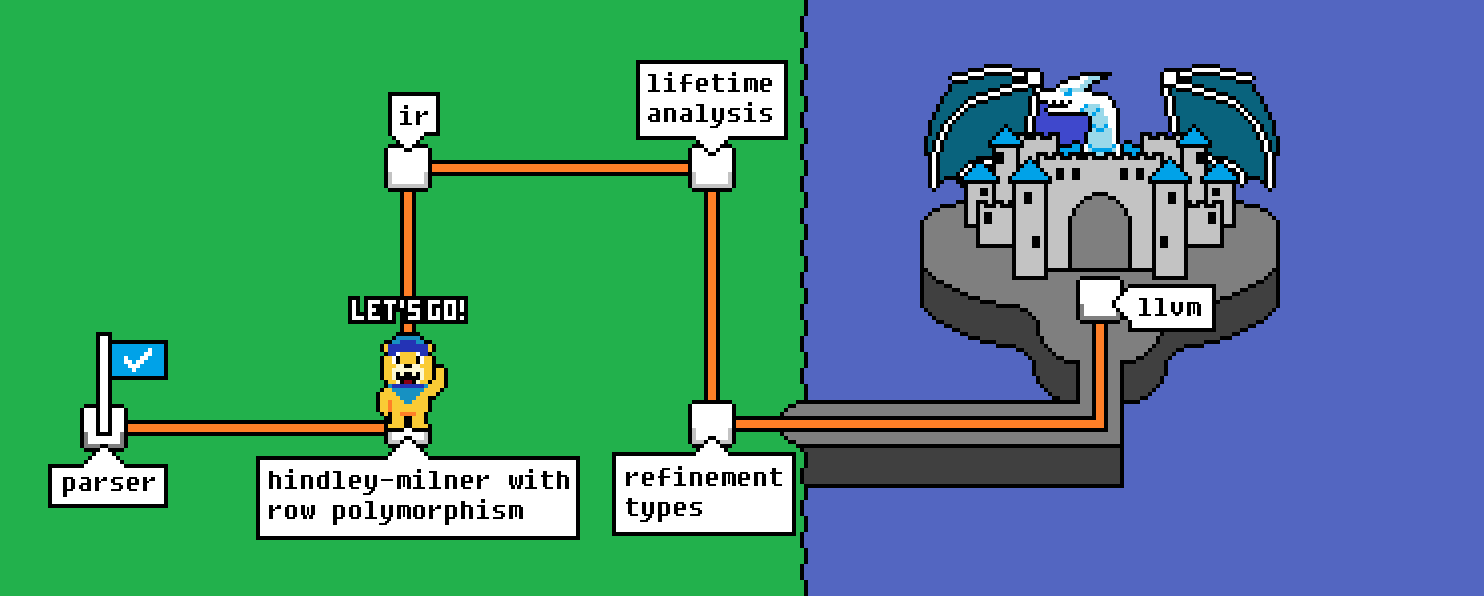
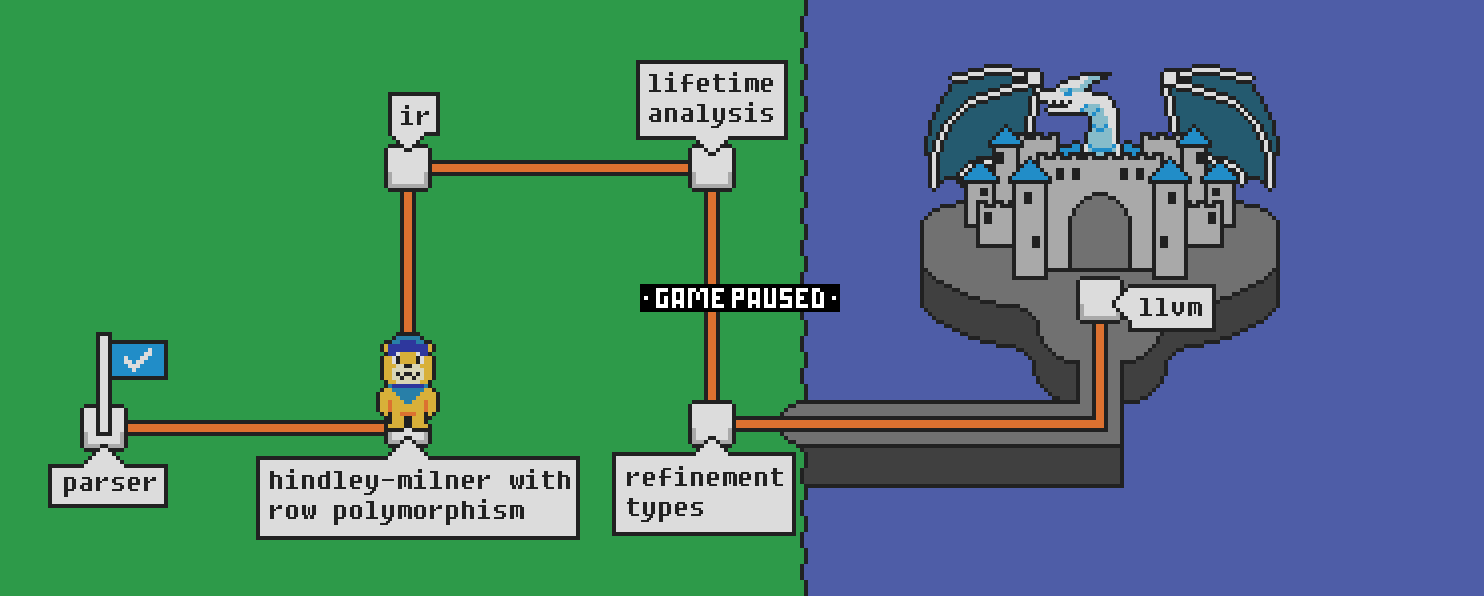
add hiatus status

diff --git a/README.md b/README.md
@@ -1,5 +1,9 @@
 # ![Butter](butter_text_only.svg)
 
+> **⚠ Note:** This project is currently paused.
+
+---
+
 [Documents](./doc/README.md) | [Contributing Guidelines](./CONTRIBUTING.md)
 
 A tasty language for building efficient software.
@@ -40,7 +44,7 @@ Being my personal project, designs and features are ultimately up for my decisio
 
 ## Road map
 
-![A road map for the Butter programming language, depicted in the form style a retro video game map. A single road snakes from right-to-left, with multiple stops, ending with a causeway leading to a castle in the middle of a lake. A flag is placed on the first stop. The project mascot (a cute yellow bear) is at the second stop and exclaims "Let's Go!". The stops on the road are: parser, Hindley-Milner with row polymorphism, IR, lifetime analysis, refinement types, and finally LLVM. An enormous dragon looms behind the castle.](./roadmap.webp)
+![A road map for the Butter programming language, depicted in the form style a retro video game map. A single road snakes from right-to-left, with multiple stops, ending with a causeway leading to a castle in the middle of a lake. A flag is placed on the first stop. The project mascot (a cute yellow bear) is at the second stop and exclaims "Let's Go!". The stops on the road are: parser, Hindley-Milner with row polymorphism, IR, lifetime analysis, refinement types, and finally LLVM. An enormous dragon looms behind the castle. The whole picture have a dark overlay with text "game paused" in the center](./roadmap.webp)
 
 [More details](https://github.com/neverRare/butter/projects/1)
 

diff --git a/CONTRIBUTING.md b/CONTRIBUTING.md
@@ -1,5 +1,9 @@
 # Contributing Guidelines
 
+> **Note:** Despite what this document says, The owner may not be able to take actions on these contributions at the moment.
+
+---
+
 Thank you for taking your time contributing. I'll address these contributions as soon as possible.
 
 ## Opening an issue
